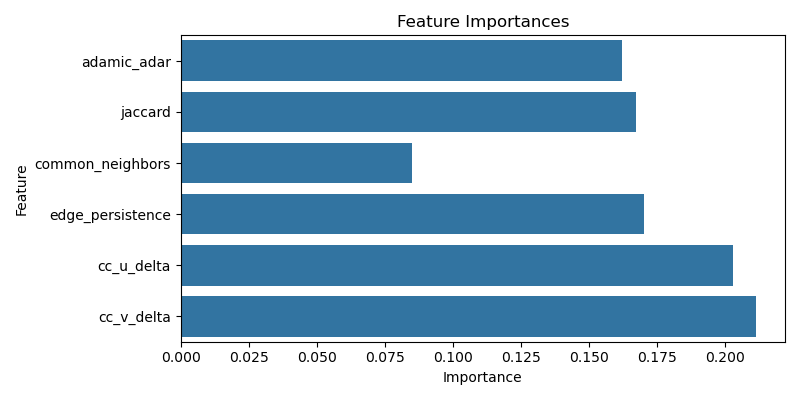
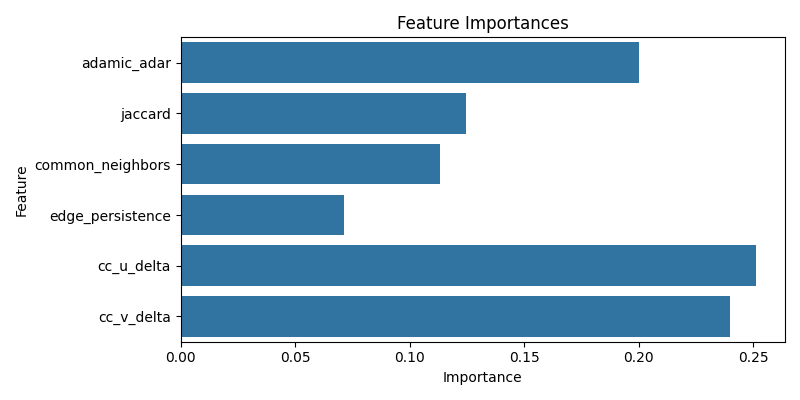
gnn started

diff --git a/gnn_dynamic_link_prediction.py b/gnn_dynamic_link_prediction.py
@@ -38,36 +38,26 @@ class GraphSAGE_LinkPredictor(nn.Module):
         h_cat = torch.cat([h_src, h_dst], dim=1)
         return torch.sigmoid(self.link_pred(h_cat)).squeeze()
 
-with open("graph.pkl", "rb") as f:
-    monthly_graphs = pickle.load(f)
+def train_on_graph_pair(G_t, G_t1, model, optimizer):
+    print("month")
+    data = nx_to_pyg(G_t)
+    all_nodes = list(G_t.nodes())
+    name_to_id = {name: idx for idx, name in enumerate(sorted(all_nodes))}
 
-G_t = monthly_graphs[0]
-G_t1 = monthly_graphs[1]
+    existing_edges = set(G_t.edges())
+    candidate_edges = [(u, v) for u in all_nodes for v in all_nodes if u < v and (u, v) not in existing_edges]
+    positive_edges = [(u, v) for (u, v) in candidate_edges if G_t1.has_edge(u, v)]
 
-data = nx_to_pyg(G_t)
+    if len(positive_edges) == 0:
+        return 0.0  # skip if no new edges
 
-# Positive edges = new links in t+1 not in t
-existing_edges = set(G_t.edges())
-all_nodes = list(G_t.nodes())
-candidate_edges = [(u, v) for u in all_nodes for v in all_nodes if u < v and (u, v) not in existing_edges]
-positive_edges = [(u, v) for (u, v) in candidate_edges if G_t1.has_edge(u, v)]
-negative_edges = random.sample([e for e in candidate_edges if e not in positive_edges], len(positive_edges))
+    negative_edges = random.sample([e for e in candidate_edges if e not in positive_edges], len(positive_edges))
+    pos_edges = [(name_to_id[u], name_to_id[v]) for u, v in positive_edges]
+    neg_edges = [(name_to_id[u], name_to_id[v]) for u, v in negative_edges]
 
-def clean_edge(edge):
-    if isinstance(edge, str):
-        return eval(edge)  # careful: only use eval if you trust the source
-    return edge
-pos_edges = [clean_edge(e) for e in positive_edges]
-neg_edges = [clean_edge(e) for e in negative_edges]
+    pos_edge_index = torch.tensor(pos_edges, dtype=torch.long).T
+    neg_edge_index = torch.tensor(neg_edges, dtype=torch.long).T
 
-pos_edge_index = torch.tensor(pos_edges, dtype=torch.long).T
-neg_edge_index = torch.tensor(neg_edges, dtype=torch.long).T
-
-
-model = GraphSAGE_LinkPredictor(in_channels=data.x.shape[1], hidden_channels=64)
-optimizer = torch.optim.Adam(model.parameters(), lr=0.01)
-
-for epoch in range(100):
     model.train()
     optimizer.zero_grad()
 
@@ -82,16 +72,56 @@ for epoch in range(100):
     loss.backward()
     optimizer.step()
 
-    if epoch % 10 == 0:
-        print(f"Epoch {epoch} | Loss: {loss.item():.4f}")
+    return loss.item()
 
-# === 5. Evaluate ===
+# Load your monthly graphs
+with open("graph.pkl", "rb") as f:
+    monthly_graphs = pickle.load(f)
 
-model.eval()
-with torch.no_grad():
-    preds = model(data.x, data.edge_index, edge_pairs)
-    preds_np = preds.cpu().numpy()
-    labels_np = labels.cpu().numpy()
-    auc = roc_auc_score(labels_np, preds_np)
-    f1 = f1_score(labels_np, preds_np > 0.5)
-    print(f"\nAUC: {auc:.4f} | F1: {f1:.4f}")
+# Initialize model
+model = GraphSAGE_LinkPredictor(in_channels=1, hidden_channels=64)
+optimizer = torch.optim.Adam(model.parameters(), lr=0.01)
+
+# Train across time steps and epochs
+for epoch in range(20):  # number of passes over the data
+    total_loss = 0
+    for t in range(len(monthly_graphs) - 1):
+        G_t = monthly_graphs[t]
+        G_t1 = monthly_graphs[t + 1]
+        loss = train_on_graph_pair(G_t, G_t1, model, optimizer)
+        total_loss += loss
+    print(f"Epoch {epoch} | Total Loss: {total_loss:.4f}")
+
+# Evaluate on last pair
+def evaluate_on_last_pair(G_t, G_t1, model):
+    data = nx_to_pyg(G_t)
+    all_nodes = list(G_t.nodes())
+    name_to_id = {name: idx for idx, name in enumerate(sorted(all_nodes))}
+
+    existing_edges = set(G_t.edges())
+    candidate_edges = [(u, v) for u in all_nodes for v in all_nodes if u < v and (u, v) not in existing_edges]
+    positive_edges = [(u, v) for (u, v) in candidate_edges if G_t1.has_edge(u, v)]
+    negative_edges = random.sample([e for e in candidate_edges if e not in positive_edges], len(positive_edges))
+
+    pos_edges = [(name_to_id[u], name_to_id[v]) for u, v in positive_edges]
+    neg_edges = [(name_to_id[u], name_to_id[v]) for u, v in negative_edges]
+
+    pos_edge_index = torch.tensor(pos_edges, dtype=torch.long).T
+    neg_edge_index = torch.tensor(neg_edges, dtype=torch.long).T
+    edge_pairs = torch.cat([pos_edge_index, neg_edge_index], dim=1)
+    labels = torch.cat([
+        torch.ones(pos_edge_index.size(1)),
+        torch.zeros(neg_edge_index.size(1))
+    ])
+
+    model.eval()
+    with torch.no_grad():
+        preds = model(data.x, data.edge_index, edge_pairs)
+        preds_np = preds.cpu().numpy()
+        labels_np = labels.cpu().numpy()
+        auc = roc_auc_score(labels_np, preds_np)
+        f1 = f1_score(labels_np, preds_np > 0.5)
+        print(f"\nFinal Eval — AUC: {auc:.4f} | F1: {f1:.4f}")
+
+# Evaluate on final timestep
+evaluate_on_last_pair(monthly_graphs[-2], monthly_graphs[-1], model)

diff --git a/dynamic_link_prediction.py b/dynamic_link_prediction.py
@@ -7,8 +7,8 @@ import seaborn as sns
 import matplotlib.pyplot as plt
 import pickle
 
-train_months = list(range(0, 16))
-test_months = list(range(16, 17))
+train_months = list(range(0, 12))
+test_months = list(range(12, 13))
 train_files = [f"features/features{m}.csv" for m in train_months]
 test_files = [f"features/features{m}.csv" for m in test_months]
 train_df = pd.concat([pd.read_csv(f) for f in train_files], ignore_index=True)

diff --git a/dynamic_extract_features.py b/dynamic_extract_features.py
@@ -63,7 +63,7 @@ with open("graph.pkl", "rb") as f:
 
 history = 3
 
-for i in range(14, len(monthly_graphs) - 1):
+for i in range(len(monthly_graphs) - 1):
     print("month" + str(i))
     Gi = directed_to_undirected_with_weights(monthly_graphs[i])
     Gi1 = directed_to_undirected_with_weights(monthly_graphs[i+1])
